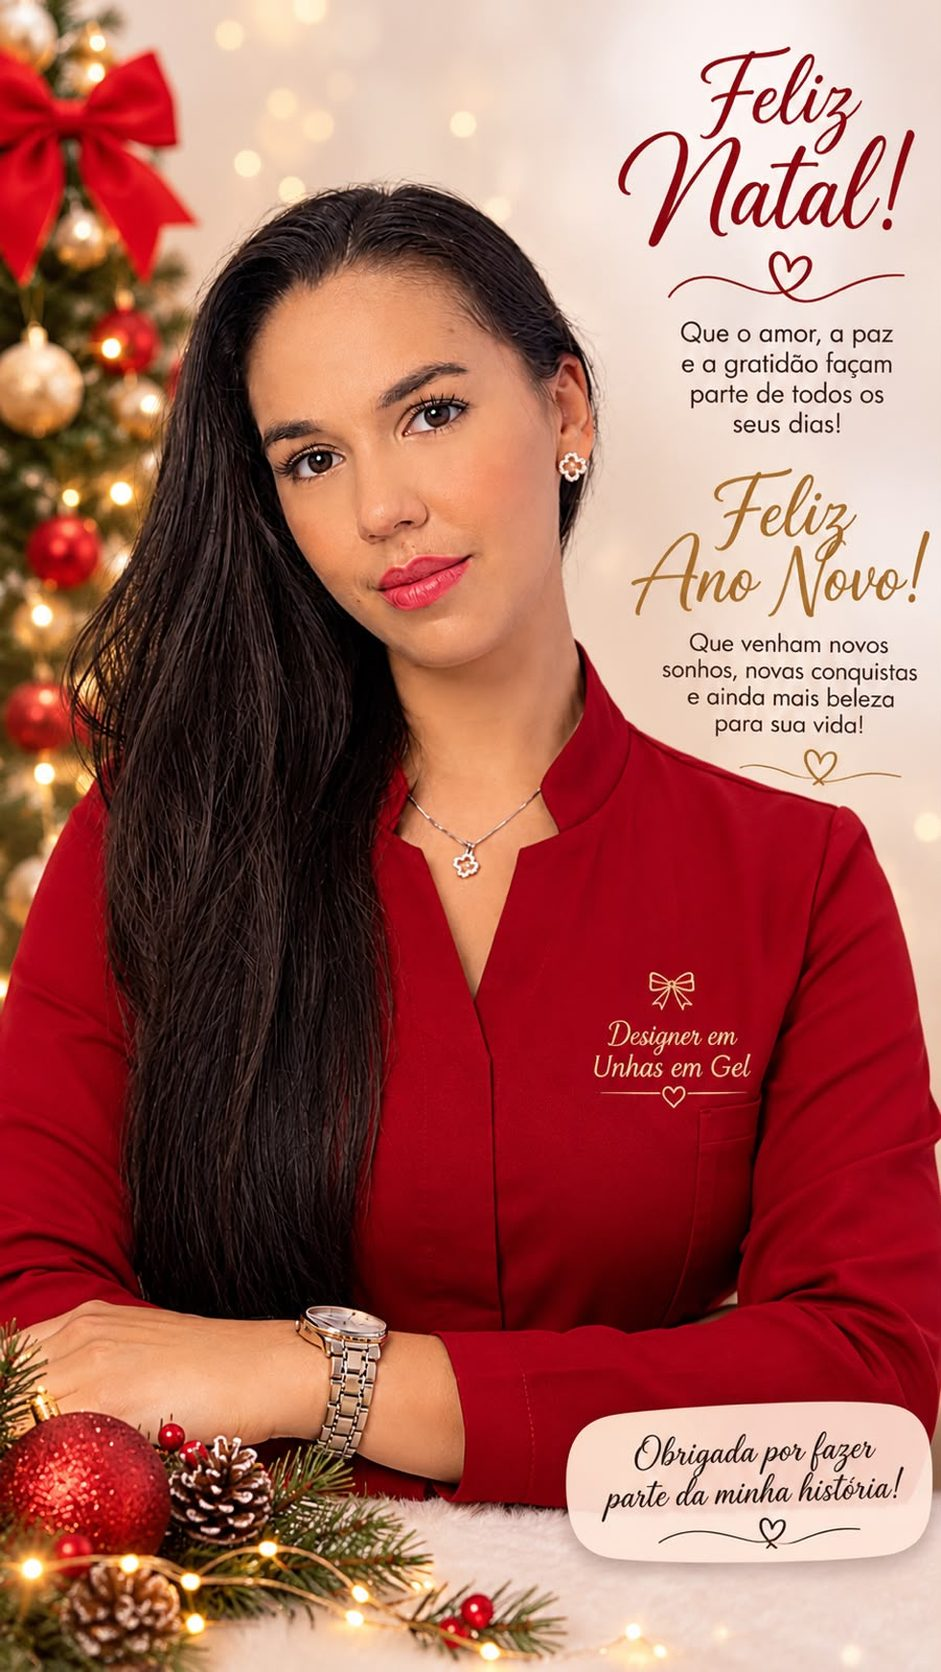
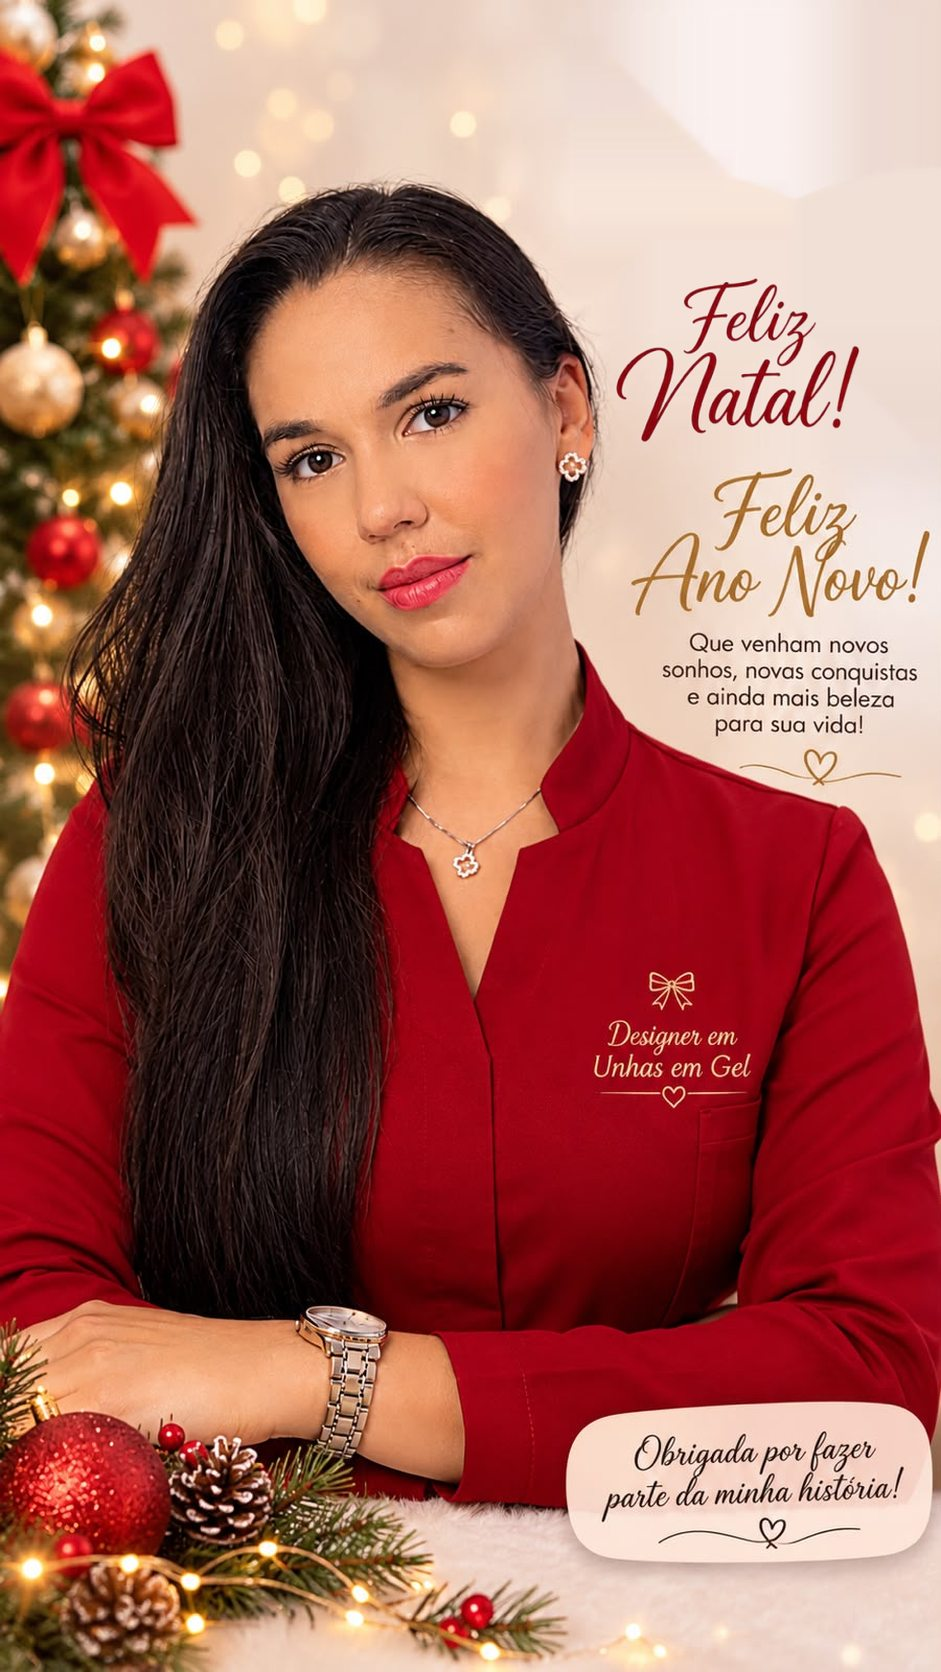
Desce o Feliz Natal da capa e acrescenta enfeites discretos
O texto da foto sai de baixo do degradê, sem a frase pequena, e ramos, bolas e estrelas ficam só nos vãos das seções.

Changed region(s): [[0.6472, 0.0311, 0.9862, 0.2799], [0.678, 0.1244, 0.7088, 0.1555], [0.6472, 0.0933, 0.678, 0.1244]]

diff --git a/index.html b/index.html
@@ -468,7 +468,8 @@ html,body{overflow-x:clip}
 .wa svg{width:28px;height:28px;fill:var(--canvas)}
 </style>
 <!-- TEMA DE NATAL: apague este link, a classe "natal" do body, a section#natal,
-     natal.css, assets/lysia-capa-natal.jpg e assets/lysia-natal.webp.
+     cada <img class="natal-enfeite">, natal.css, assets/lysia-capa-natal.jpg,
+     assets/lysia-natal.webp e a pasta assets/natal/.
      O HTML da capa continua em lysia-capa.jpg. Passo a passo no topo de natal.css. -->
 <link rel="stylesheet" href="natal.css">
 </head>
@@ -514,6 +515,9 @@ html,body{overflow-x:clip}
 
   <!-- TEMA DE NATAL: apague esta section inteira depois das festas -->
   <section id="natal" aria-labelledby="natal-titulo">
+    <!-- TEMA DE NATAL: enfeites, apagar junto com a pasta assets/natal/ -->
+    <img class="natal-enfeite enfeite-natal-ramo" src="assets/natal/pinheiro.svg" alt="" width="200" height="120" aria-hidden="true">
+    <img class="natal-enfeite enfeite-natal-bola" src="assets/natal/bola.svg" alt="" width="64" height="78" aria-hidden="true">
     <div class="wrap">
       <div class="natal-divisor" aria-hidden="true">
         <span></span>
@@ -531,6 +535,8 @@ html,body{overflow-x:clip}
   </section>
 
   <section id="trabalhos">
+    <!-- TEMA DE NATAL: enfeite, apagar junto com a pasta assets/natal/ -->
+    <img class="natal-enfeite enfeite-trabalhos" src="assets/natal/estrela.svg" alt="" width="24" height="24" aria-hidden="true">
     <div class="wrap">
       <span class="label rv">Trabalhos</span>
       <h2 class="title rv">Do nude ao <span class="gloss">bordô.</span></h2>
@@ -560,6 +566,8 @@ html,body{overflow-x:clip}
   </section>
 
   <section id="tecnicas">
+    <!-- TEMA DE NATAL: enfeite, apagar junto com a pasta assets/natal/ -->
+    <img class="natal-enfeite enfeite-tecnicas" src="assets/natal/azevinho.svg" alt="" width="128" height="108" aria-hidden="true">
     <div class="wrap">
       <span class="label rv">Técnicas</span>
       <h2 class="title rv">Qual é a <span class="gloss">sua?</span></h2>
@@ -587,6 +595,8 @@ html,body{overflow-x:clip}
   </section>
 
   <section id="cuidado">
+    <!-- TEMA DE NATAL: enfeite, apagar junto com a pasta assets/natal/ -->
+    <img class="natal-enfeite enfeite-cuidado" src="assets/natal/pinheiro.svg" alt="" width="200" height="120" aria-hidden="true">
     <div class="wrap how">
       <div>
         <span class="label rv">Manutenção</span>
@@ -662,6 +672,8 @@ html,body{overflow-x:clip}
   </section>
 
   <section id="sobre">
+    <!-- TEMA DE NATAL: enfeite, apagar junto com a pasta assets/natal/ -->
+    <img class="natal-enfeite enfeite-sobre" src="assets/natal/estrela.svg" alt="" width="24" height="24" aria-hidden="true">
     <div class="wrap about">
       <!-- TEMA DE NATAL: foto original assets/lysia.jpg, alt "Lysia Silva, nail designer, segurando cartela de cores", 900×1200 -->
       <figure class="rv"><img src="assets/lysia-natal.webp" alt="Lysia Silva de gorro de Natal e vestido vermelho listrado, sorrindo com o micromotor." loading="lazy" decoding="async" width="819" height="890"></figure>
@@ -675,6 +687,8 @@ html,body{overflow-x:clip}
   </section>
 
   <section id="duvidas">
+    <!-- TEMA DE NATAL: enfeite, apagar junto com a pasta assets/natal/ -->
+    <img class="natal-enfeite enfeite-duvidas" src="assets/natal/bola.svg" alt="" width="64" height="78" aria-hidden="true">
     <div class="wrap faq">
       <div class="head">
         <span class="label rv">Dúvidas</span>
@@ -691,6 +705,8 @@ html,body{overflow-x:clip}
   </section>
 
   <section id="dezembro">
+    <!-- TEMA DE NATAL: enfeite, apagar junto com a pasta assets/natal/ -->
+    <img class="natal-enfeite enfeite-dezembro" src="assets/natal/azevinho.svg" alt="" width="128" height="108" aria-hidden="true">
     <div class="wrap">
       <div class="dezembro">
         <div class="dezembro-grid">

diff --git a/natal.css b/natal.css
@@ -1,18 +1,22 @@
 /* ============================================================
    TEMA DE NATAL — dezembro
    Camada leve: paleta (vinho e ouro), a mensagem de boas festas,
-   a capa com jaleco vinho e o retrato recortado em Quem atende.
+   a capa com jaleco vinho, o retrato recortado em Quem atende
+   e enfeites discretos nos cantos das seções.
    As fotos originais ficam intactas:
    - assets/lysia-capa.jpg  (capa bege; o HTML ainda aponta pra ela)
    - assets/lysia.jpg
    Arquivos de dezembro:
-   - assets/lysia-capa-natal.jpg  (mesma capa, jaleco vinho, mesmo enquadramento)
+   - assets/lysia-capa-natal.jpg  (mesma capa, jaleco vinho, mesmo enquadramento;
+     o "Feliz Natal!" foi descido na imagem para não cortar no degradê)
    - assets/lysia-natal.webp      (retrato de gorro, fundo removido)
+   - assets/natal/                (pinheiro, azevinho, bola e estrela, SVG)
 
    PARA VOLTAR AO VISUAL DO ANO, nesta ordem:
    1. No index.html:
       - apague o <link> deste arquivo, a classe "natal" do <body>,
-        a <section id="natal"> e os comentários "TEMA DE NATAL";
+        a <section id="natal"> e os comentários "TEMA DE NATAL"
+        (inclui cada <img class="natal-enfeite">);
       - na seção #sobre, volte o src para assets/lysia.jpg,
         o alt para "Lysia Silva, nail designer, segurando cartela de cores"
         e width/height para 900 e 1200;
@@ -22,7 +26,8 @@
       A capa em si volta sozinha ao apagar este arquivo
       (o HTML continua em assets/lysia-capa.jpg).
    2. No 404.html: devolva as três cores do :root anotadas lá.
-   3. Apague este arquivo, assets/lysia-capa-natal.jpg e assets/lysia-natal.webp.
+   3. Apague este arquivo, assets/lysia-capa-natal.jpg,
+      assets/lysia-natal.webp e a pasta assets/natal/.
       Não apague lysia-capa.jpg nem lysia.jpg.
 
    Tirar a classe "natal" desliga a paleta e devolve a capa bege.
@@ -160,4 +165,34 @@ body.natal #sobre figure img{
     margin-inline:auto;
   }
   body.natal #sobre figure img{width:100%}
+}
+
+/* enfeites: só nos vãos da seção, nunca por cima do texto.
+   O .wrap fica acima, então foto e botão cobrem o desenho se encostar. */
+body.natal .natal-enfeite{
+  position:absolute;
+  z-index:0;
+  display:block;
+  height:auto;
+  pointer-events:none;
+  user-select:none;
+}
+body.natal .wrap{position:relative;z-index:1}
+body.natal .enfeite-natal-ramo{top:10px;left:18px;width:132px;opacity:.42}
+body.natal .enfeite-natal-bola{right:26px;bottom:18px;width:40px;opacity:.58}
+body.natal .enfeite-trabalhos{top:36px;right:34px;width:16px;opacity:.55}
+body.natal .enfeite-tecnicas{left:22px;bottom:22px;width:84px;opacity:.4;transform:rotate(-10deg)}
+body.natal .enfeite-cuidado{right:24px;bottom:20px;width:124px;opacity:.36;transform:scaleX(-1) rotate(8deg)}
+body.natal .enfeite-sobre{top:28px;right:36px;width:15px;opacity:.5}
+body.natal .enfeite-duvidas{left:30px;bottom:24px;width:32px;opacity:.52}
+body.natal .enfeite-dezembro{top:18px;right:22px;width:72px;opacity:.4;transform:rotate(-12deg)}
+@media (max-width:860px){
+  body.natal .enfeite-natal-ramo{top:8px;left:6px;width:72px;opacity:.34}
+  body.natal .enfeite-trabalhos{top:22px;right:12px;width:13px}
+  body.natal .enfeite-tecnicas{left:4px;bottom:12px;width:58px}
+  body.natal .enfeite-duvidas{left:10px;bottom:14px;width:24px}
+  body.natal .enfeite-natal-bola,
+  body.natal .enfeite-cuidado,
+  body.natal .enfeite-sobre,
+  body.natal .enfeite-dezembro{display:none}
 }
